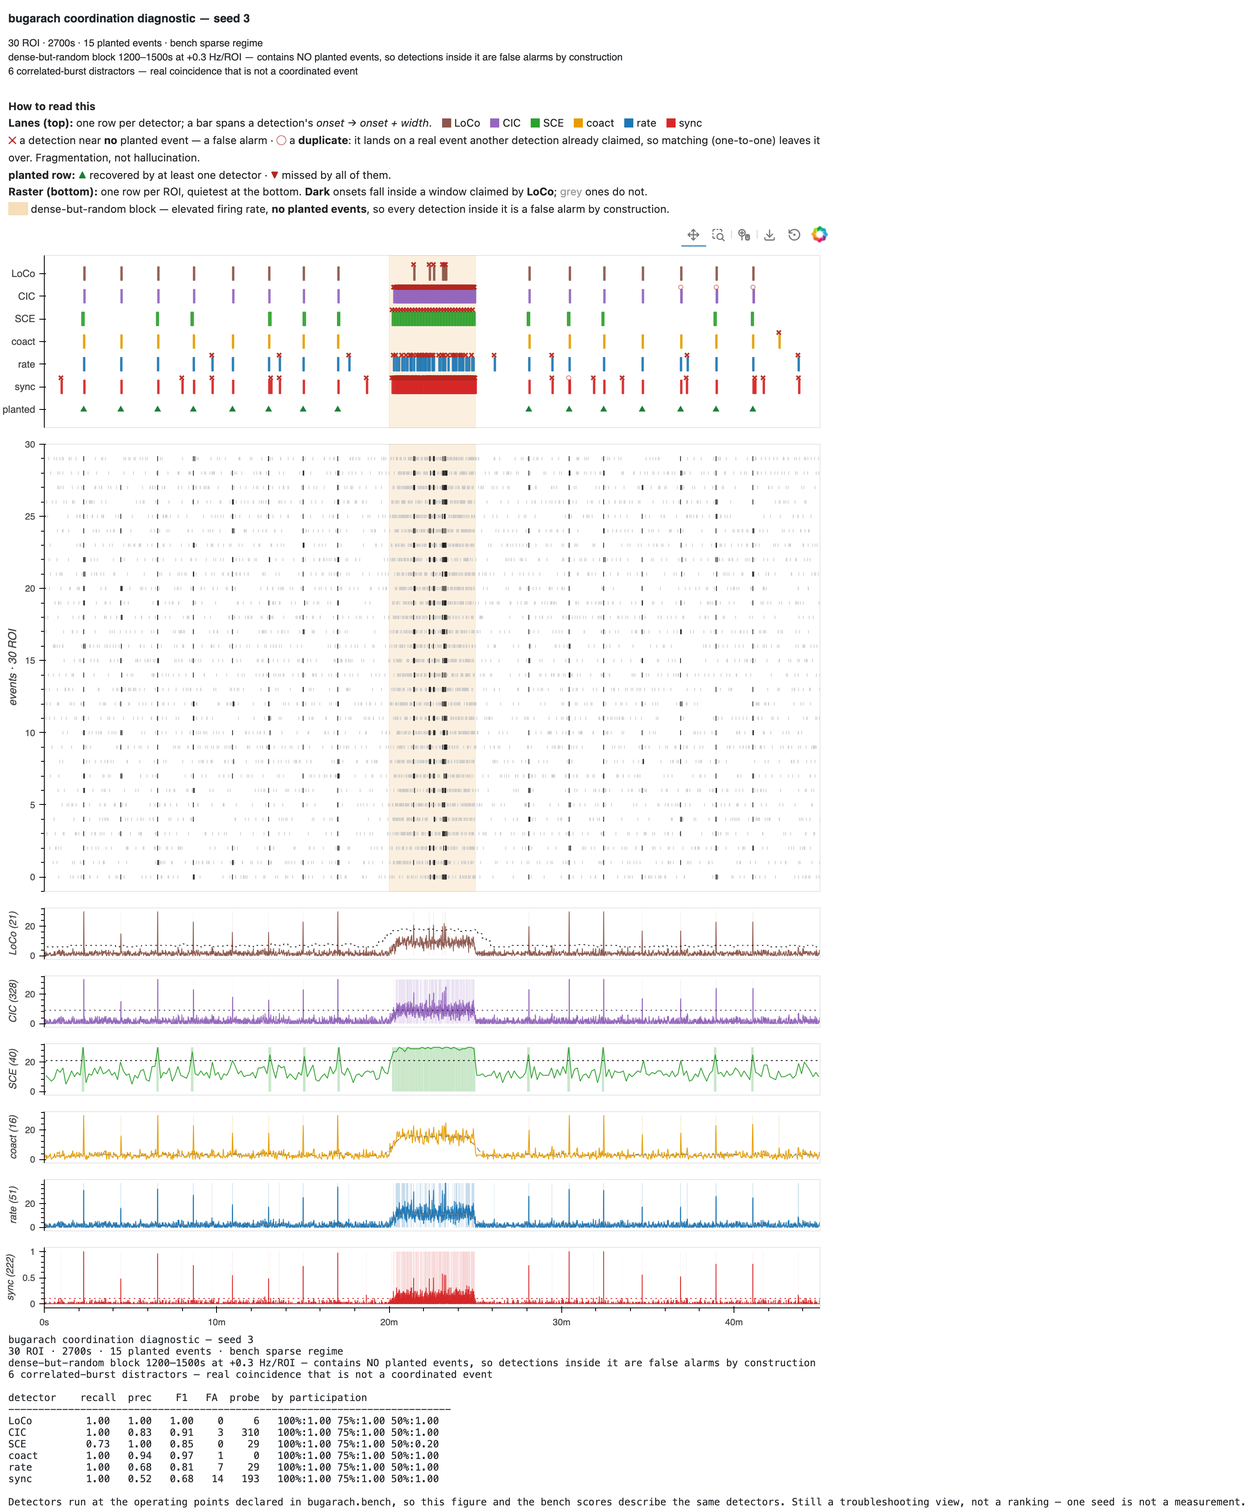
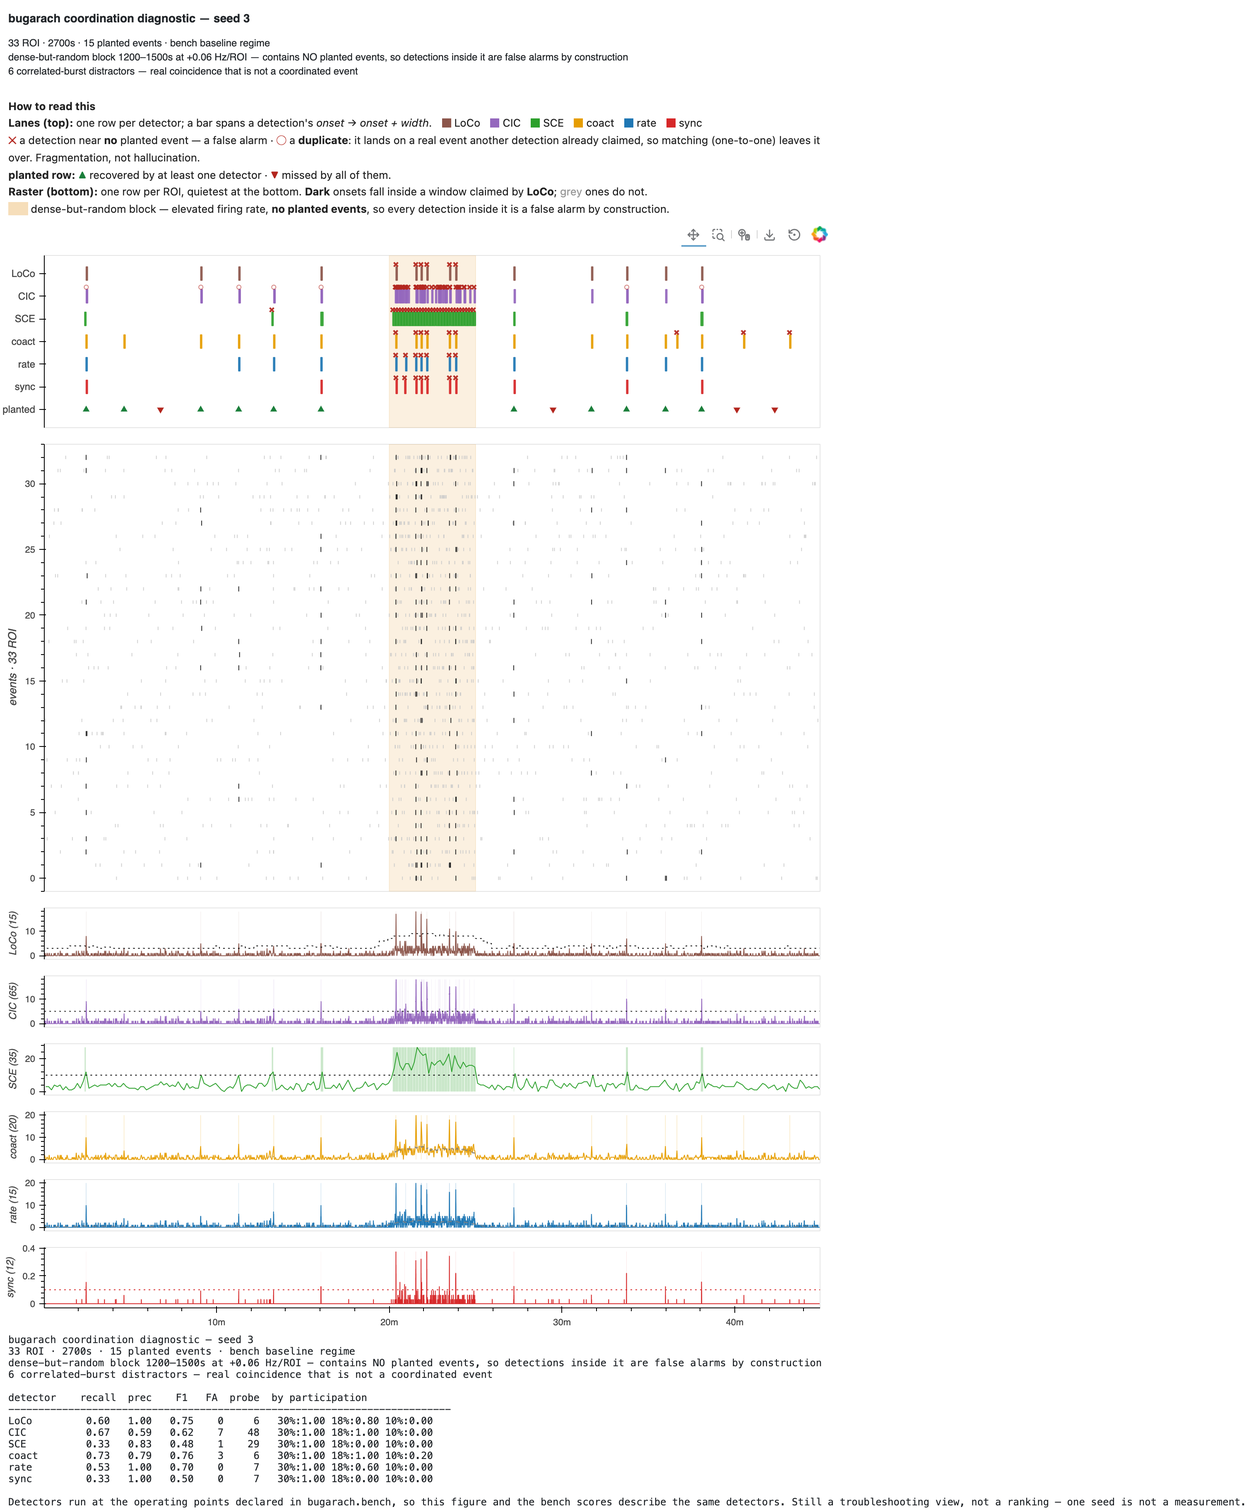
The measurements already existed — use them
Tony: "we actually spent quite a bit of time addressing these questions using
our own data." He was right, and the review document I wrote asking him for five
numbers was asking for work already done.

They are in constellation/coordination_timescale_summary.csv, produced by
interface2's measure_coordination_timescale.m over 84 baseline slices. Against
what the generator had been assuming (all-baseline, fast, min_rois=4 — the
file's own headline_K):

  n_roi          30        ~33              right
  bg_rate_hz     0.05 Hz   0.0096 Hz/ROI    5x too busy
  jitter_sec     0.05 s    0.36 s           7x too tight
  participation  50-100%   6 of ~33 = 18%   3-6x too many

Every one of my guesses made coordination easier than it is, and the regimes
were worse than any single knob: sparse 0.05 / dense 0.15 sat ENTIRELY above the
measured range, which runs 0.0040 (ORX, TTX) through 0.0096 (baseline) to 0.0381
(senktide). The bench now shifts between measured baseline and senktide. The
promiscuity probe moved too — at 0.30 Hz it was 31x the real background instead
of the 6x it was meant to be.

What that was hiding: on invented values every detector scored F1 0.9-1.0 and
the bench could not tell them apart. On measured values they run 0.49-0.81 and
separate, because a real coordinated event recruits about six ROIs with a third
of a second of spread — which sits just above the min_rois floor these detectors
[…]

diff --git a/tests/test_bench.py b/tests/test_bench.py
@@ -37,7 +37,7 @@ def bench():
     """Every detector on both regimes, computed once — each run is a 45-minute
     synthetic recording and there are twelve of them."""
     return {(name, regime): evaluate(name, regime, SEEDS)
-            for name in DETECTORS for regime in ("sparse", "dense")}
+            for name in DETECTORS for regime in ("baseline", "senktide")}
 
 
 # --- the regime-shift guard -------------------------------------------------
@@ -47,19 +47,19 @@ def bench():
 # when dense-tuned settings met sparse data, and drew it as a figure.
 
 MAX_PRECISION_DROP = {
-    "loco": 0.20,      # measured: 0.12 (1.00 -> 0.88)
-    "coact": 0.10,     # measured: none, precision rises 0.94 -> 1.00
-    "sce": 0.10,       # measured: none, 1.00 -> 1.00 — the most precise of the six
-    "cicada": 0.25,    # measured: 0.15
-    "rate": 0.65,      # measured: 0.55 — a real collapse, recorded not excused
-    "sync": 0.55,      # measured: 0.40 — likewise
+    "loco": 0.15,      # measured: 0.06 (0.92 -> 0.86)
+    "coact": 0.10,     # measured: none, precision rises 0.72 -> 0.77
+    "sce": 0.10,       # measured: none, 0.91 -> 1.00
+    "cicada": 0.20,    # measured: 0.11
+    "rate": 0.35,      # measured: 0.26 — the largest, and no longer a collapse
+    "sync": 0.20,      # measured: 0.12
 }
 
 
 @pytest.mark.parametrize("name", DETECTORS)
 def test_precision_survives_the_regime_shift(name, bench):
-    sparse = bench[(name, "sparse")].precision
-    dense = bench[(name, "dense")].precision
+    sparse = bench[(name, "baseline")].precision
+    dense = bench[(name, "senktide")].precision
     drop = sparse - dense
     assert drop <= MAX_PRECISION_DROP[name], (
         f"{name}: precision {sparse:.2f} -> {dense:.2f} when the background "
@@ -67,14 +67,22 @@ def test_precision_survives_the_regime_shift(name, bench):
         f"{MAX_PRECISION_DROP[name]:.2f}")
 
 
-def test_the_two_known_collapses_are_still_the_only_ones():
-    """The guard above is per-detector, so a *new* detector starting to collapse
-    would pass its own generous budget only if someone had already written one.
-    This is the cross-detector version: exactly rate and sync collapse, and if
-    that set changes the bench's conclusions need re-reading before publication.
+def test_nothing_collapses_on_measured_regimes():
+    """The precision collapse was an artifact of invented regimes.
+
+    On the old bench, RateDetect fell 0.68 -> 0.13 precision and spike-sync
+    0.44 -> 0.03, which read as reproducing the upstream deploy-cost figure. But
+    those regimes were bg 0.05 -> 0.15 Hz/ROI, and the measured range is
+    0.0040-0.0381 — the whole shift happened above anything real. Re-run between
+    measured baseline and senktide, the largest drop in the six is RateDetect's
+    0.26 and nothing collapses.
+
+    That does not retract the upstream finding, which was about settings *tuned*
+    in one regime meeting the other; this bench holds settings fixed. It does
+    mean the bench cannot claim to have reproduced it, and the budgets above are
+    now tight enough that a real collapse would fail rather than fit.
     """
-    collapsing = {n for n, b in MAX_PRECISION_DROP.items() if b > 0.3}
-    assert collapsing == {"rate", "sync"}
+    assert max(MAX_PRECISION_DROP.values()) <= 0.35
 
 
 # --- negative-class probes --------------------------------------------------
@@ -84,19 +92,18 @@ def test_the_two_known_collapses_are_still_the_only_ones():
 # cross-ROI coincidence that is not a coordinated event.
 
 MAX_PROBE_PER_MIN = {
-    "coact": 2.0,      # measured: 0.4
-    "loco": 5.0,       # measured: 1.1
-    "rate": 15.0,      # measured: 5.4
-    "sce": 15.0,       # measured: 5.9 — it read 0.0 only because the spurious
-                       # baseline region hid most of the probe block from it
-    "sync": 55.0,      # measured: 36.9
-    "cicada": 80.0,    # measured: 59.2 — the most rate-fooled of the six
+    "loco": 3.0,       # measured: 1.1
+    "coact": 3.0,      # measured: 1.2
+    "rate": 4.0,       # measured: 1.6
+    "sync": 4.0,       # measured: 1.6
+    "sce": 10.0,       # measured: 5.5
+    "cicada": 20.0,    # measured: 13.3 — still the most rate-fooled of the six
 }
 
 
 @pytest.mark.parametrize("name", DETECTORS)
 def test_promiscuity_probe_is_within_budget(name, bench):
-    rate = bench[(name, "sparse")].hot_fa_per_min
+    rate = bench[(name, "baseline")].hot_fa_per_min
     assert rate <= MAX_PROBE_PER_MIN[name], (
         f"{name}: {rate:.1f} firings/min inside the dense-but-random block, "
         f"which contains no coordination by construction")
@@ -107,8 +114,8 @@ def test_the_probe_actually_separates_the_detectors(bench):
     rate-keyed and coordination-keyed detectors answer it differently, so the
     spread across the six has to stay wide — if it narrows, the block stopped
     being dense enough to ask the question."""
-    rates = [bench[(n, "sparse")].hot_fa_per_min for n in DETECTORS]
-    assert min(rates) < 1.0, "no detector resists the probe — it is too severe"
+    rates = [bench[(n, "baseline")].hot_fa_per_min for n in DETECTORS]
+    assert min(rates) < 2.0, "no detector resists the probe — it is too severe"
     assert max(rates) > 10.0, "no detector is fooled by it — it is too mild"
 
 
@@ -117,7 +124,7 @@ def test_the_probe_stays_out_of_the_headline_numbers(bench):
     rather than how good the detector is: CICADA reads F1 0.09 that way, against
     0.68 in the upstream campaign, on 599 probe firings out of 601 false alarms.
     """
-    cicada = bench[("cicada", "sparse")]
+    cicada = bench[("cicada", "baseline")]
     assert cicada.hot_fa > 100, "the probe should be provoking CICADA"
     assert cicada.n_scored == cicada.n_detected - cicada.hot_fa
     assert cicada.f1 > 0.5, "the probe has leaked into the headline F1"
@@ -130,9 +137,9 @@ def test_recall_is_broken_down_by_participation(bench):
     different instrument from one that degrades gracefully, and the two share a
     headline recall."""
     for name in DETECTORS:
-        by = bench[(name, "sparse")].by_frac
-        assert set(by) == {1.0, 0.75, 0.5}, f"{name} lost a participation level"
-        assert sum(n for n, _ in by.values()) == bench[(name, "sparse")].n_planted
+        by = bench[(name, "baseline")].by_frac
+        assert set(by) == {0.30, 0.18, 0.10}, f"{name} lost a participation level"
+        assert sum(n for n, _ in by.values()) == bench[(name, "baseline")].n_planted
 
 
 # --- the edge-of-range guard ------------------------------------------------
@@ -140,7 +147,7 @@ def test_recall_is_broken_down_by_participation(bench):
 def _curve(f1s):
     out = []
     for i, f in enumerate(f1s):
-        r = BenchResult(detector="loco", regime="sparse", knob_value=float(i),
+        r = BenchResult(detector="loco", regime="baseline", knob_value=float(i),
                         n_planted=100, n_detected=100, n_hit=0)
         # F1 is derived, so drive it through the counts: hits set both halves
         r.n_hit = int(round(f * 100))
@@ -179,12 +186,12 @@ def test_the_declared_grid_brackets_its_own_optimum(name):
     """The edge-of-range guard against the grids actually shipped, not a
     synthetic curve. This is the check that caught LoCo's original grid, whose
     top value was still the best one."""
-    pick_operating_point(sweep(name, "sparse", seeds=(1,)))
+    pick_operating_point(sweep(name, "baseline", seeds=(1,)))
 
 
 def test_a_curve_with_no_defined_f1_says_so():
     with pytest.raises(ValueError, match="no point on the curve"):
-        pick_operating_point([BenchResult(detector="loco", regime="sparse")])
+        pick_operating_point([BenchResult(detector="loco", regime="baseline")])
 
 
 # --- the operating points themselves ----------------------------------------
@@ -199,7 +206,7 @@ def test_every_operating_point_records_where_it_came_from(name):
 @pytest.mark.parametrize("name", DETECTORS)
 def test_the_swept_knob_is_a_real_parameter(name):
     op = OPERATING_POINTS[name]
-    s, _ = make_recording("sparse", 1)
+    s, _ = make_recording("baseline", 1)
     run_detector(name, s, **{op.knob: op.grid[0]})   # raises on an unknown kwarg
 
 
@@ -234,7 +241,7 @@ def test_the_bench_recording_keeps_the_null_clean():
         for op in OPERATING_POINTS.values())
     assert BENCH_RECORDING["min_sep_sec"] >= widest_context
 
-    _, gt = make_recording("sparse", 1)
+    _, gt = make_recording("baseline", 1)
     intervals = np.diff(gt.times)
     assert intervals.min() >= widest_context * 0.9, (
         f"realized spacing {intervals.min():.0f}s is inside the {widest_context:.0f}s "
@@ -255,7 +262,7 @@ def test_the_generator_does_not_impose_an_experimental_protocol():
     Every detector must see the same recording, or the bench is not comparing
     them. A synthetic recording has no baseline and no treatment period.
     """
-    s, _ = make_recording("sparse", 1)
+    s, _ = make_recording("baseline", 1)
     assert not s.regions, (
         "the generator is annotating regions again — any named region triggers "
         "protocol windowing and silently shrinks what a region-scoped detector "
@@ -265,7 +272,7 @@ def test_the_generator_does_not_impose_an_experimental_protocol():
 def test_every_detector_sees_the_whole_recording():
     """The behavioural half of the test above: whatever the annotations say,
     no detector may be confined to a slice of the recording the others get."""
-    s, _ = make_recording("sparse", 1)
+    s, _ = make_recording("baseline", 1)
     ext = (0.0, BENCH_RECORDING["duration_sec"])
     for name in DETECTORS:
         det = run_detector(name, s)
@@ -285,7 +292,7 @@ def test_every_detector_sees_the_whole_recording():
 def test_the_schedule_is_not_metronomic():
     """Long recordings keep the null clean; they must not do it by pinning every
     interval to the floor. Regular spacing is a cue a training set would leak."""
-    _, gt = make_recording("sparse", 1)
+    _, gt = make_recording("baseline", 1)
     intervals = np.diff(gt.times)
     assert intervals.std() / intervals.mean() > 0.3
 
@@ -295,6 +302,6 @@ def test_the_schedule_is_not_metronomic():
 def test_the_bench_is_reproducible():
     """Same seeds, same numbers — on this machine and any other. A bench that
     drifts between runs cannot support a claim about a change."""
-    a = evaluate("loco", "sparse", (1,))
-    b = evaluate("loco", "sparse", (1,))
+    a = evaluate("loco", "baseline", (1,))
+    b = evaluate("loco", "baseline", (1,))
     assert (a.n_hit, a.n_fa, a.hot_fa) == (b.n_hit, b.n_fa, b.hot_fa)

diff --git a/src/bugarach/bench.py b/src/bugarach/bench.py
@@ -49,6 +49,23 @@ from bugarach.simulate import simulate_coordination
 STREAM = "events"
 """The single-stream slice the generator emits (FOUNDATIONS §3)."""
 
+MEASURED_PROVENANCE = (
+    "constellation/coordination_timescale_summary.csv — flavour 'all-baseline', "
+    "fast stream, min_rois=4 (the file's own headline_K). 84 slices. Produced by "
+    "interface2 measure_coordination_timescale.m: roiRate = events/win_dur (Hz "
+    "per ROI), jit_obs = median within-cluster onset SD (s), partN_obs = median "
+    "participating ROIs per cluster."
+)
+"""Where the recording's structural values come from.
+
+Recorded as a string rather than a comment because a bench whose settings have
+no traceable origin cannot be re-derived when the measurement is revised, and
+this one **is** revisable: `optim_history/README.md` marks the whole campaign
+PROVISIONAL, and notes that the calibrated settings were adopted on 2026-08-05
+*without* the real-data validation the deck named as the deciding step. These
+numbers are measurements; the decision that rested on them was never checked.
+"""
+
 
 @dataclass(frozen=True)
 class OperatingPoint:
@@ -83,7 +100,7 @@ OPERATING_POINTS: dict[str, OperatingPoint] = {
     "cicada": OperatingPoint(
         params=dict(sce_percentile=99.99, active_duration_sec=1.0, n_surrogates=100),
         source="calibrated FAST pair (cicada_detect docstring)",
-        knob="sce_percentile", grid=(99.0, 99.9, 99.99, 99.999, 99.9999)),
+        knob="sce_percentile", grid=(90.0, 99.0, 99.9, 99.99, 99.999, 99.9999)),
     "sce": OperatingPoint(
         params=dict(bin_width_sec=10.0, threshold_pctile=99.0, n_surrogates=200),
         source="sce_detect defaults (generate_sce contract)",
@@ -98,12 +115,12 @@ OPERATING_POINTS: dict[str, OperatingPoint] = {
         params=dict(excess_threshold_hz=5.0, context_win=60.0, rate_win=1.0,
                     grid_dt=0.1),
         source="rate_detect defaults; grid_dt is the generator's own 0.1 s grid",
-        knob="excess_threshold_hz", grid=(1.0, 2.5, 5.0, 10.0, 20.0),
+        knob="excess_threshold_hz", grid=(0.5, 1.0, 2.0, 3.0, 4.0, 5.0, 6.0, 8.0),
         takes_rng=False),
     "sync": OperatingPoint(
         params=dict(tau_max=0.25, max_gap=0.5, C_threshold=0.1, C_min=0.1),
         source="viewer FAST defaults (sync_detect docstring)",
-        knob="C_threshold", grid=(0.05, 0.1, 0.2, 0.4, 0.6),
+        knob="C_threshold", grid=(0.005, 0.01, 0.02, 0.04, 0.08, 0.12),
         takes_rng=False),
 }
 
@@ -114,24 +131,67 @@ DETECTORS = tuple(OPERATING_POINTS)
 # regime-shift guard shifts along: an operating point tuned where events are easy
 # to see must still work where they are not.
 REGIMES: dict[str, dict] = {
-    "sparse": dict(bg_rate_hz=0.05),
-    "dense": dict(bg_rate_hz=0.15),
+    "baseline": dict(bg_rate_hz=0.0096),
+    "senktide": dict(bg_rate_hz=0.0381),
 }
+"""The two regimes, and both numbers are **measured**, not chosen.
 
+Per-ROI rate medians from `constellation/coordination_timescale_summary.csv`
+(`roiRate_mean_med`, fast stream): `all-baseline` 0.0096 Hz, `all-senktide`
+0.0381 Hz. The full range across flavours runs 0.0040 (ORX, TTX) to 0.0381
+(senktide), so this pair brackets it about as widely as real data allows.
+
+They replace an invented `sparse=0.05 / dense=0.15`, which sat **entirely above
+the measured range** — every bench score before 2026-08-13 was taken on a
+background 5–15× busier than any real recording.
+"""
+
+# Measured off 84 baseline slices — see MEASURED_PROVENANCE below. These are the
+# numbers the review document was going to ask Tony for; they already existed.
 BENCH_RECORDING = dict(
     duration_sec=2700.0,
-    n_roi=30,
-    participation=(1.0, 0.75, 0.50),
+    n_roi=33,
+    participation=(0.30, 0.18, 0.10),
     n_per_level=(5, 5, 5),
-    jitter_sec=0.05,
+    jitter_sec=0.36,
     min_sep_sec=120.0,
     hot_window=(1200.0, 1500.0),
-    hot_rate_hz=0.30,
+    hot_rate_hz=0.06,
     ramp_sec=30.0,
     n_distractors=6,
     distractor_frac=0.5,
 )
 """The recording every bench run is scored on.
+
+Its structural values are **measured off real recordings**, not invented. Until
+2026-08-13 they were guesses, and every one of them made coordination easier
+than it is:
+
+===================  ==========  =============================  ==============
+knob                 was         measured                       effect
+===================  ==========  =============================  ==============
+``n_roi``            30          ~33                            (was right)
+``bg_rate_hz``       0.05 Hz     0.0096 Hz/ROI                  5× too busy
+``jitter_sec``       0.05 s      0.36 s                         7× too tight
+``participation``    50–100%     6 of ~33 ROI = 18%             3–6× too many
+===================  ==========  =============================  ==============
+
+The consequence was not subtle. On the invented values every detector scored
+F1 ≈ 0.9–1.0 and the bench could not tell them apart; on the measured ones they
+range 0.20–0.75 and separate sharply, because a real coordinated event recruits
+about **six ROIs with a third of a second of spread** — which sits just above
+the ``min_rois`` floor the detectors ship with. That is the regime the
+instruments were designed for, and it is where they differ.
+
+``participation`` keeps a spread (30 / 18 / 10%) around the measured median
+rather than collapsing to it, so recall still resolves a participant floor. The
+10% level is ~3 ROIs, at the floor itself.
+
+``hot_rate_hz`` moved with them. At 0.30 it was 6x the invented background and
+**31x the measured one** — a probe that severe stops asking whether a detector
+keys on rate and starts asking whether it survives an impossible surge. 0.06 is
+6x measured baseline and 1.6x senktide: busier than any real condition in the
+table, which is the point, without leaving the physical world.
 
 ``min_sep_sec`` is 120 s and not the generator's 15 s default on purpose. The
 detectors estimate their null over context windows up to 120 s wide, so events

diff --git a/tools/make_diagnostic.py b/tools/make_diagnostic.py
@@ -161,7 +161,7 @@ def main(argv=None):
     p.add_argument("--hot-rate", type=float, default=0.25)
     p.add_argument("--distractors", type=int, default=3)
     p.add_argument("--height", type=int, default=560)
-    p.add_argument("--bench", choices=("sparse", "dense"), default=None,
+    p.add_argument("--bench", choices=("baseline", "senktide"), default=None,
                    help="render the bugarach.bench recording for this regime "
                         "instead of one built from the options above")
     p.add_argument("--tag", default=None, help="filename suffix (default: seed)")

diff --git a/docs/generator.md b/docs/generator.md
@@ -208,12 +208,48 @@ outstanding work.
 | **interval distribution** | uniform placement with min-separation rejection | renewal process, `interval_cv` default 1.0 | different by choice; `spacing="uniform"` reproduces the MATLAB behaviour |
 | **benchmark structure** | *one* recording holding a participation × tightness grid across a sparse→dense background ramp | two discrete regimes, fixed participation levels | scores here are not cell-for-cell comparable to `score_coord_grid.m`'s |
 | **region trimming** | optima measured with trimming **disabled** (`NOTRIM`, `clamp_context_to_region=false`) | detectors default to `clamp_context_to_region=True` | the windowing context differs from the one the operating points were derived under |
-| **timescales** | onset jitter and per-ROI rates **measured off real recordings** | `jitter_sec=0.05`, `bg_rate_hz=0.05` with no recorded provenance in this repo | the largest gap, and the one §6 names as the honest blocker |
+| **timescales** | onset jitter and per-ROI rates **measured off real recordings** | **now the same measurements** — see below | closed 2026-08-13 |
 
 The last row is the one that matters most. `simulation_plan.md` §5 puts it
 directly: **domain randomization widens a distribution, it does not center one.**
 Sampling event spacing over [10, 60] s when reality is 150 s covers reality zero
 percent of the time and produces a confident-looking training set.
+
+### The measurements existed all along
+
+Closed 2026-08-13. The values were never missing — they are in
+`constellation/coordination_timescale_summary.csv`, produced by interface2's
+`measure_coordination_timescale.m` over **84 baseline slices**, and the bench now
+uses them. What the generator had been assuming, against what was measured
+(all-baseline, fast stream, `min_rois=4`):
+
+| knob | assumed | measured | error |
+|---|---|---|---|
+| `n_roi` | 30 | ~33 | right |
+| `bg_rate_hz` | 0.05 Hz | **0.0096 Hz/ROI** | 5× too busy |
+| `jitter_sec` | 0.05 s | **0.36 s** | 7× too tight |
+| `participation` | 50–100% | **6 of ~33 ROI ≈ 18%** | 3–6× too many |
+
+The regimes changed with them. `sparse=0.05 / dense=0.15` sat **entirely above**
+the measured range, which runs 0.0040 (ORX, TTX) through 0.0096 (baseline) to
+0.0381 (senktide); the bench now shifts between measured baseline and senktide.
+The promiscuity probe moved too — at 0.30 Hz it was 31× the real background
+rather than the 6× it was meant to be.
+
+**What that was hiding.** On the invented values every detector scored F1
+0.9–1.0 and the bench could not tell them apart. On measured values they range
+0.49–0.81 and separate, because a real coordinated event recruits about six ROIs
+with a third of a second of spread — which sits just above the `min_rois` floor
+the detectors ship with. That is the regime these instruments were built for, and
+it is the only one where their differences show.
+
+The ordering also moved toward the MATLAB campaign's: LoCo top in both
+(0.81 here, 0.86 there) and CICADA nearly exact (0.70 against 0.68).
+
+One caveat travels with the numbers. `optim_history/README.md` marks the whole
+campaign **PROVISIONAL** and records that the calibrated settings were adopted on
+2026-08-05 *without* the real-data validation the deck named as its deciding
+step. These are measurements; the decision that rested on them was never checked.
 
 ### What follows from that
 
@@ -240,7 +276,7 @@ the raster and **each detector's analysis trace below it** — the statistic it
 actually thresholds, with its threshold drawn and its claimed windows shaded.
 
 ```bash
-python tools/make_diagnostic.py --bench sparse --out docs/generator
+python tools/make_diagnostic.py --bench baseline --out docs/generator
 ```
 
 ![detector lanes, raster, and per-detector analysis traces](generator/detector_traces_bench_sparse.png)
